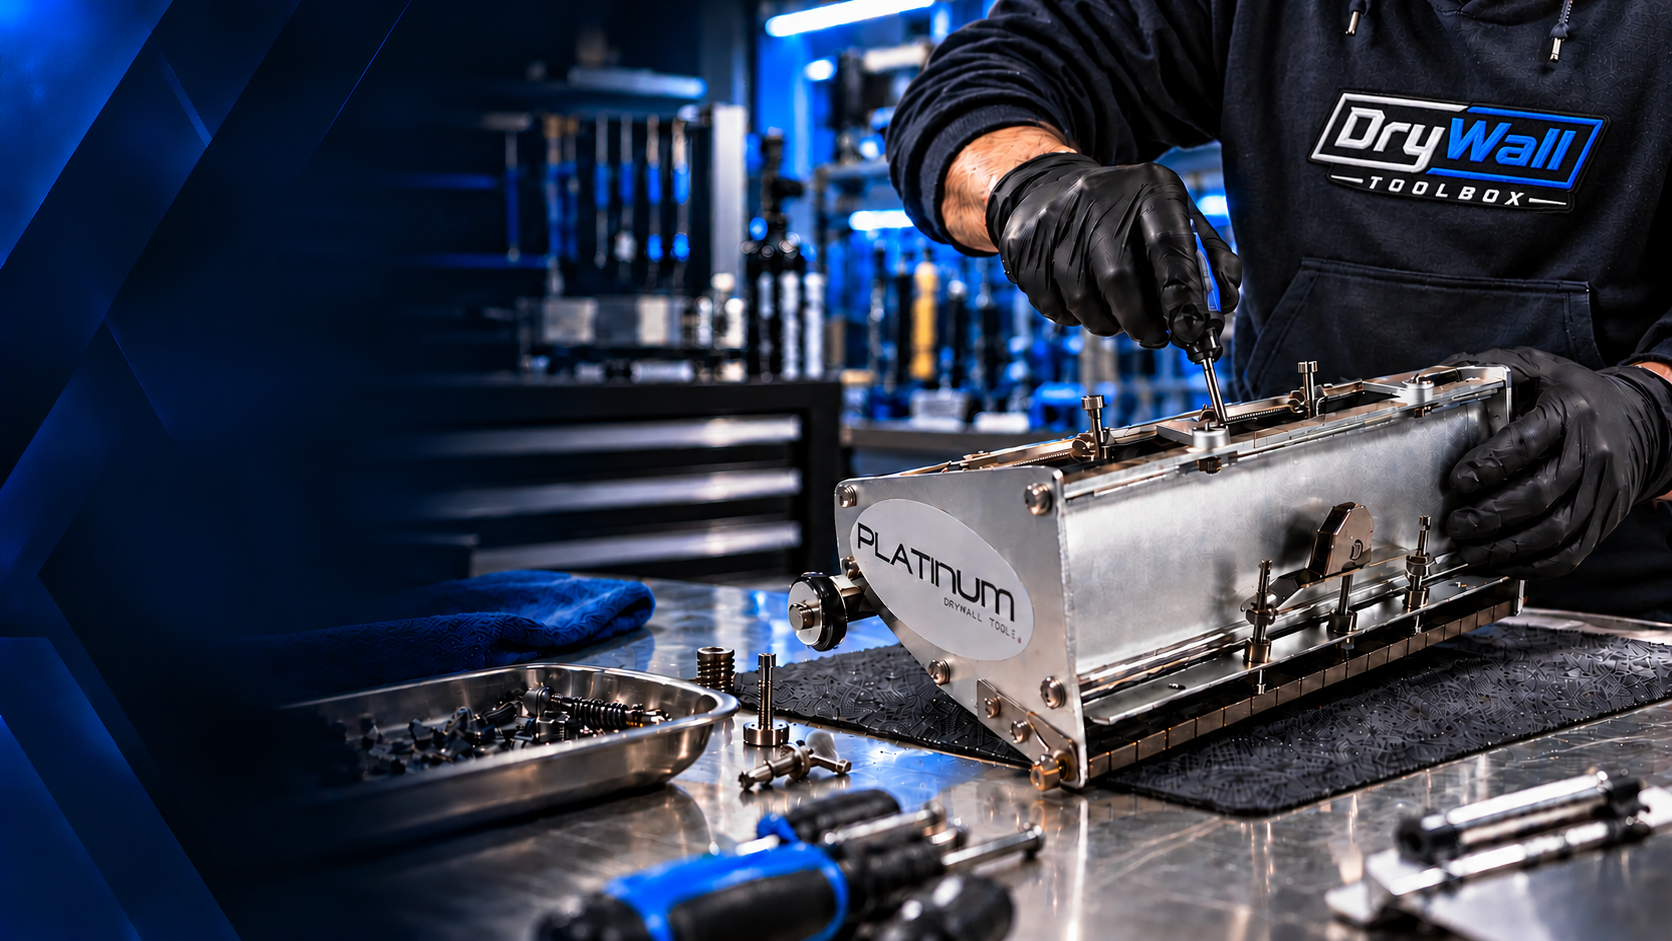
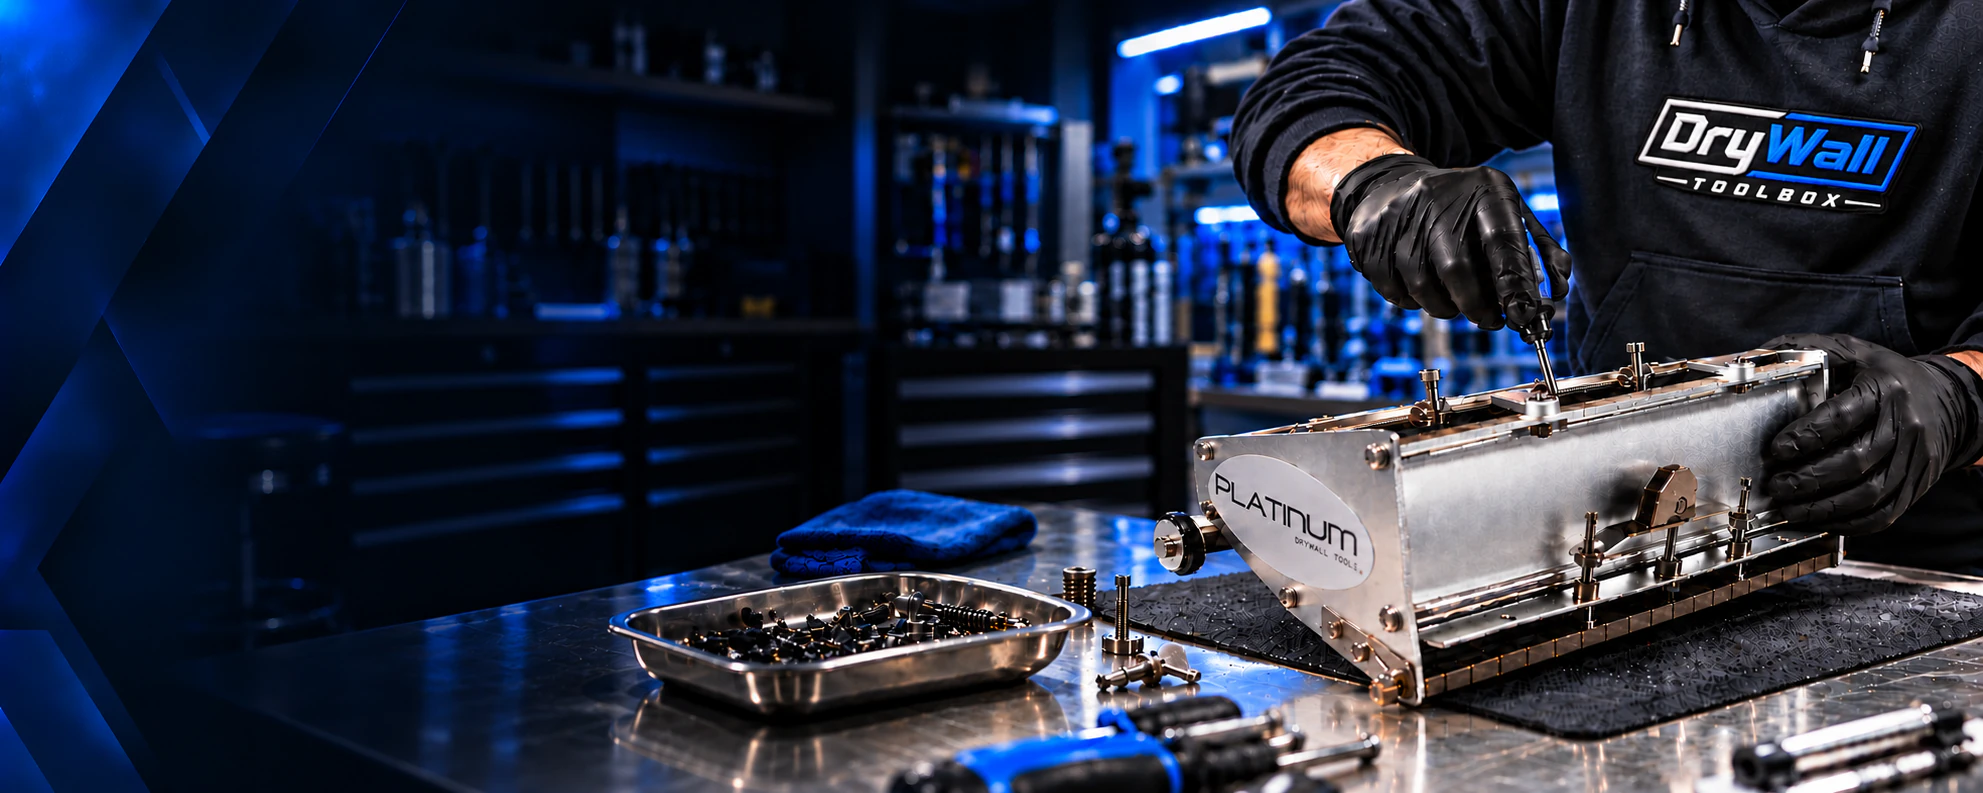
UPDATE - CHECKPOINT

diff --git a/frontend/src/assets/media/responsiveHeroMedia.js b/frontend/src/assets/media/responsiveHeroMedia.js
@@ -17,6 +17,7 @@ import heroRepairsDesktopW828 from "./generated/heroes/repairs-desktop-828.webp"
 import heroRepairsDesktopW960 from "./generated/heroes/repairs-desktop-960.webp";
 import heroRepairsDesktopW1280 from "./generated/heroes/repairs-desktop-1280.webp";
 import heroRepairsDesktopW1600 from "./generated/heroes/repairs-desktop-1600.webp";
+import heroRepairsDesktopW1920 from "./generated/heroes/repairs-desktop-1920.webp";
 import heroRepairsMobileSource from "./home/home-hero-repairs-mobile.webp";
 import heroRepairsMobileW480 from "./generated/heroes/repairs-mobile-480.webp";
 import heroRepairsMobileW640 from "./generated/heroes/repairs-mobile-640.webp";
@@ -53,7 +54,7 @@ export const RESPONSIVE_HERO_MEDIA_QUERY = "(max-width: 47.99rem)";
 const imageSets = Object.freeze({
   homeDesktop: Object.freeze({ src: heroHomeDesktopSource, srcSet: [heroHomeDesktopW480 + ' 480w', heroHomeDesktopW640 + ' 640w', heroHomeDesktopW828 + ' 828w', heroHomeDesktopW960 + ' 960w', heroHomeDesktopW1280 + ' 1280w', heroHomeDesktopW1600 + ' 1600w', heroHomeDesktopSource + ' 1672w'].join(', '), width: 1672, height: 941 }),
   homeMobile: Object.freeze({ src: heroHomeMobileSource, srcSet: [heroHomeMobileW480 + ' 480w', heroHomeMobileW640 + ' 640w', heroHomeMobileW828 + ' 828w', heroHomeMobileSource + ' 941w'].join(', '), width: 941, height: 1672 }),
-  repairsDesktop: Object.freeze({ src: heroRepairsDesktopSource, srcSet: [heroRepairsDesktopW480 + ' 480w', heroRepairsDesktopW640 + ' 640w', heroRepairsDesktopW828 + ' 828w', heroRepairsDesktopW960 + ' 960w', heroRepairsDesktopW1280 + ' 1280w', heroRepairsDesktopW1600 + ' 1600w', heroRepairsDesktopSource + ' 1672w'].join(', '), width: 1672, height: 941 }),
+  repairsDesktop: Object.freeze({ src: heroRepairsDesktopSource, srcSet: [heroRepairsDesktopW480 + ' 480w', heroRepairsDesktopW640 + ' 640w', heroRepairsDesktopW828 + ' 828w', heroRepairsDesktopW960 + ' 960w', heroRepairsDesktopW1280 + ' 1280w', heroRepairsDesktopW1600 + ' 1600w', heroRepairsDesktopW1920 + ' 1920w', heroRepairsDesktopSource + ' 1983w'].join(', '), width: 1983, height: 793 }),
   repairsMobile: Object.freeze({ src: heroRepairsMobileSource, srcSet: [heroRepairsMobileW480 + ' 480w', heroRepairsMobileW640 + ' 640w', heroRepairsMobileW828 + ' 828w', heroRepairsMobileSource + ' 941w'].join(', '), width: 941, height: 1672 }),
   toolsetBuilder: Object.freeze({ src: heroToolsetBuilderSource, srcSet: [heroToolsetBuilderW480 + ' 480w', heroToolsetBuilderW640 + ' 640w', heroToolsetBuilderW828 + ' 828w', heroToolsetBuilderW960 + ' 960w', heroToolsetBuilderW1280 + ' 1280w', heroToolsetBuilderW1600 + ' 1600w', heroToolsetBuilderSource + ' 1774w'].join(', '), width: 1774, height: 887 }),
   dropdownParts: Object.freeze({ src: heroDropdownPartsSource, srcSet: [heroDropdownPartsW480 + ' 480w', heroDropdownPartsW640 + ' 640w', heroDropdownPartsW828 + ' 828w', heroDropdownPartsW960 + ' 960w', heroDropdownPartsW1280 + ' 1280w', heroDropdownPartsSource + ' 1568w'].join(', '), width: 1568, height: 1003 }),

diff --git a/frontend/src/components/home/homeHeroCampaigns.js b/frontend/src/components/home/homeHeroCampaigns.js
@@ -27,7 +27,7 @@ export const HOME_HERO_CAMPAIGNS = [
     accentLine: 1,
     description: 'From routine maintenance to complete repairs, our experts keep your drywall tools performing at their best.',
     primaryAction: { label: 'Request a Repair', to: '/repairs/start' },
-    secondaryAction: { label: 'Explore Services', to: '/repairs' },
+    secondaryAction: { label: 'Explore Services', to: '/repairs/packages' },
   },
 ];
 

diff --git a/frontend/src/components/storefront/StorefrontHeader.jsx b/frontend/src/components/storefront/StorefrontHeader.jsx
@@ -310,7 +310,7 @@ export default function Header({ onCartToggle, onMobileMenuOpen }) {
     {
       id: 'repairs',
       label: 'Repair Services',
-      landingTo: '/repairs',
+      landingTo: '/repairs/packages',
       landingLabel: 'View all repair services',
       landingDescription: 'Browse our complete collection of repair packages.',
       description: 'Compare repair packages for your tool type.',

diff --git a/frontend/src/styles/repair-hero-shared.css b/frontend/src/styles/repair-hero-shared.css
@@ -563,3 +563,13 @@
   .home-hero__stage { min-height: clamp(610px, 156vw, 690px); }
   .home-hero-carousel { bottom: 4px; }
 }
+
+/* The Repair Services landing page uses its supplied artwork as the complete
+   hero surface. The artwork already provides its own dark text-safe area. */
+.repair-landing .repair-hero {
+  background: transparent;
+}
+
+.repair-landing .repair-hero__scrim {
+  display: none;
+}
